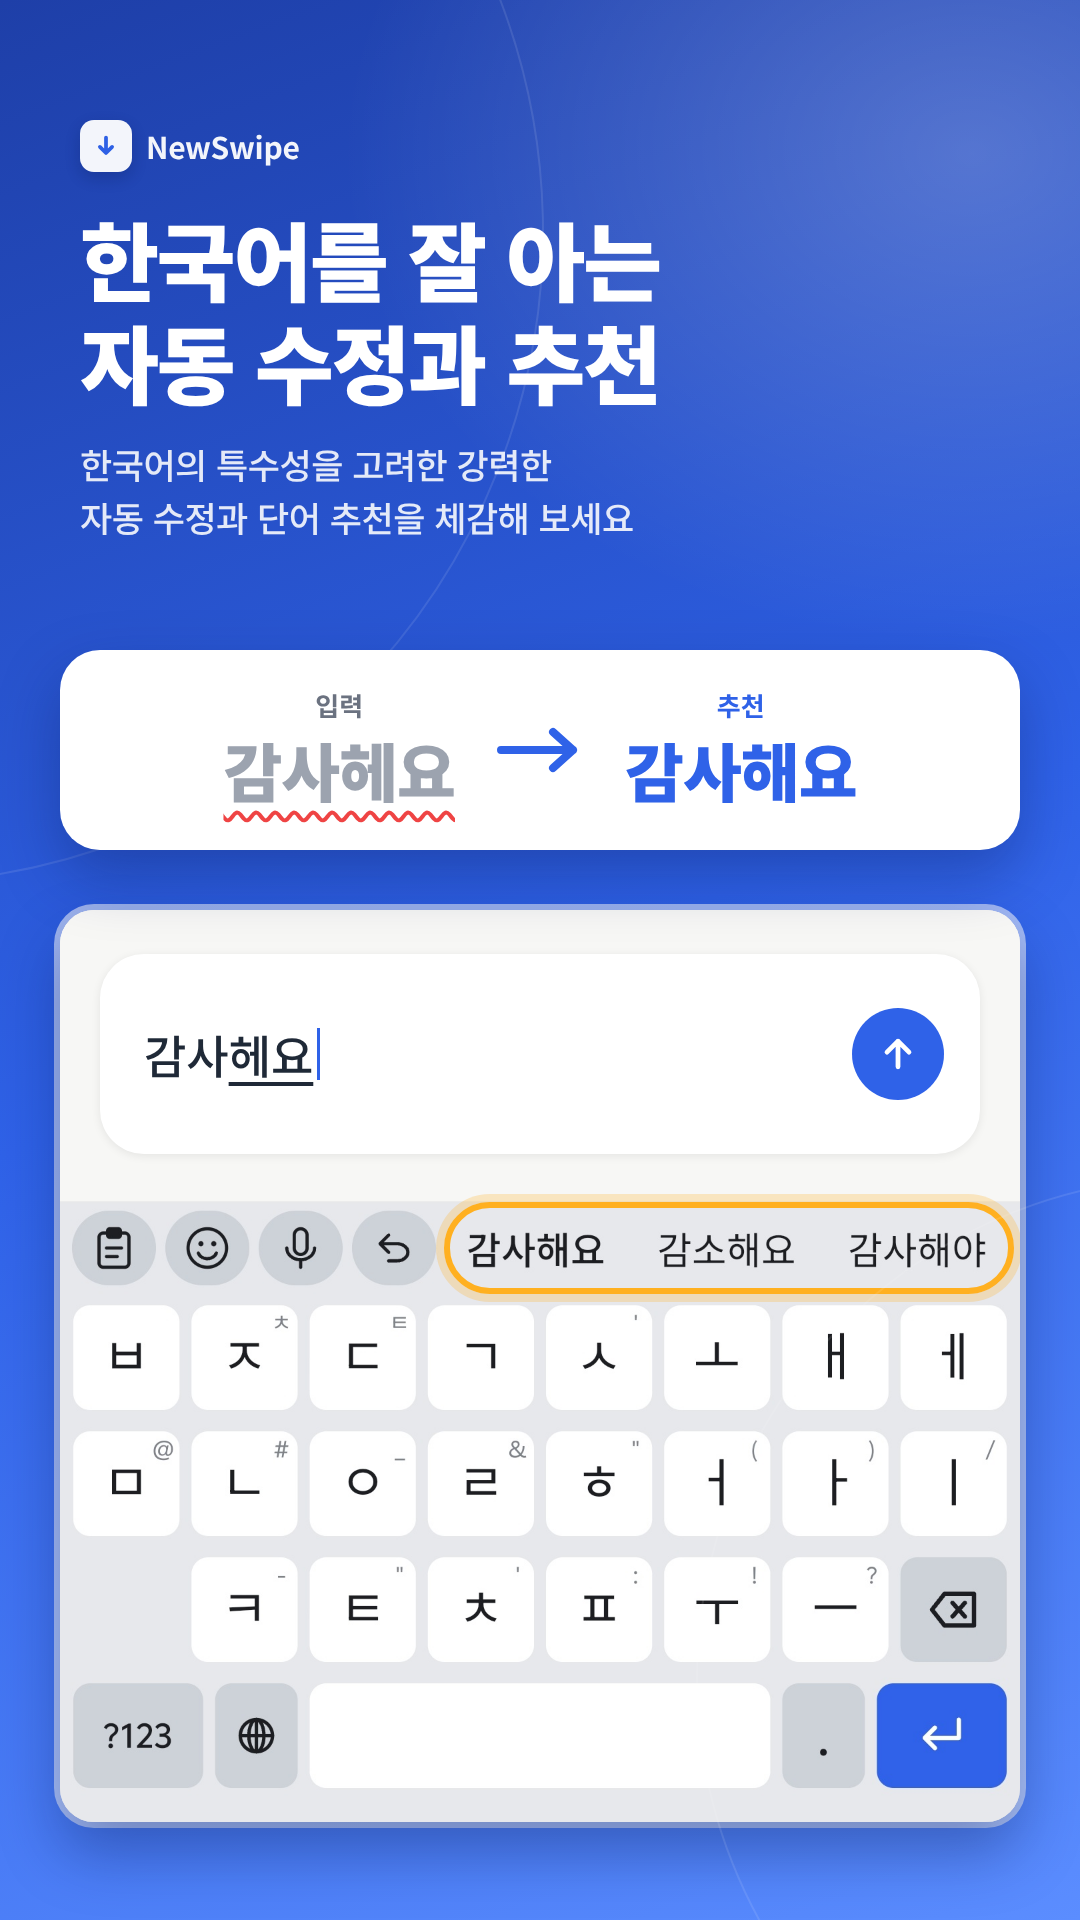
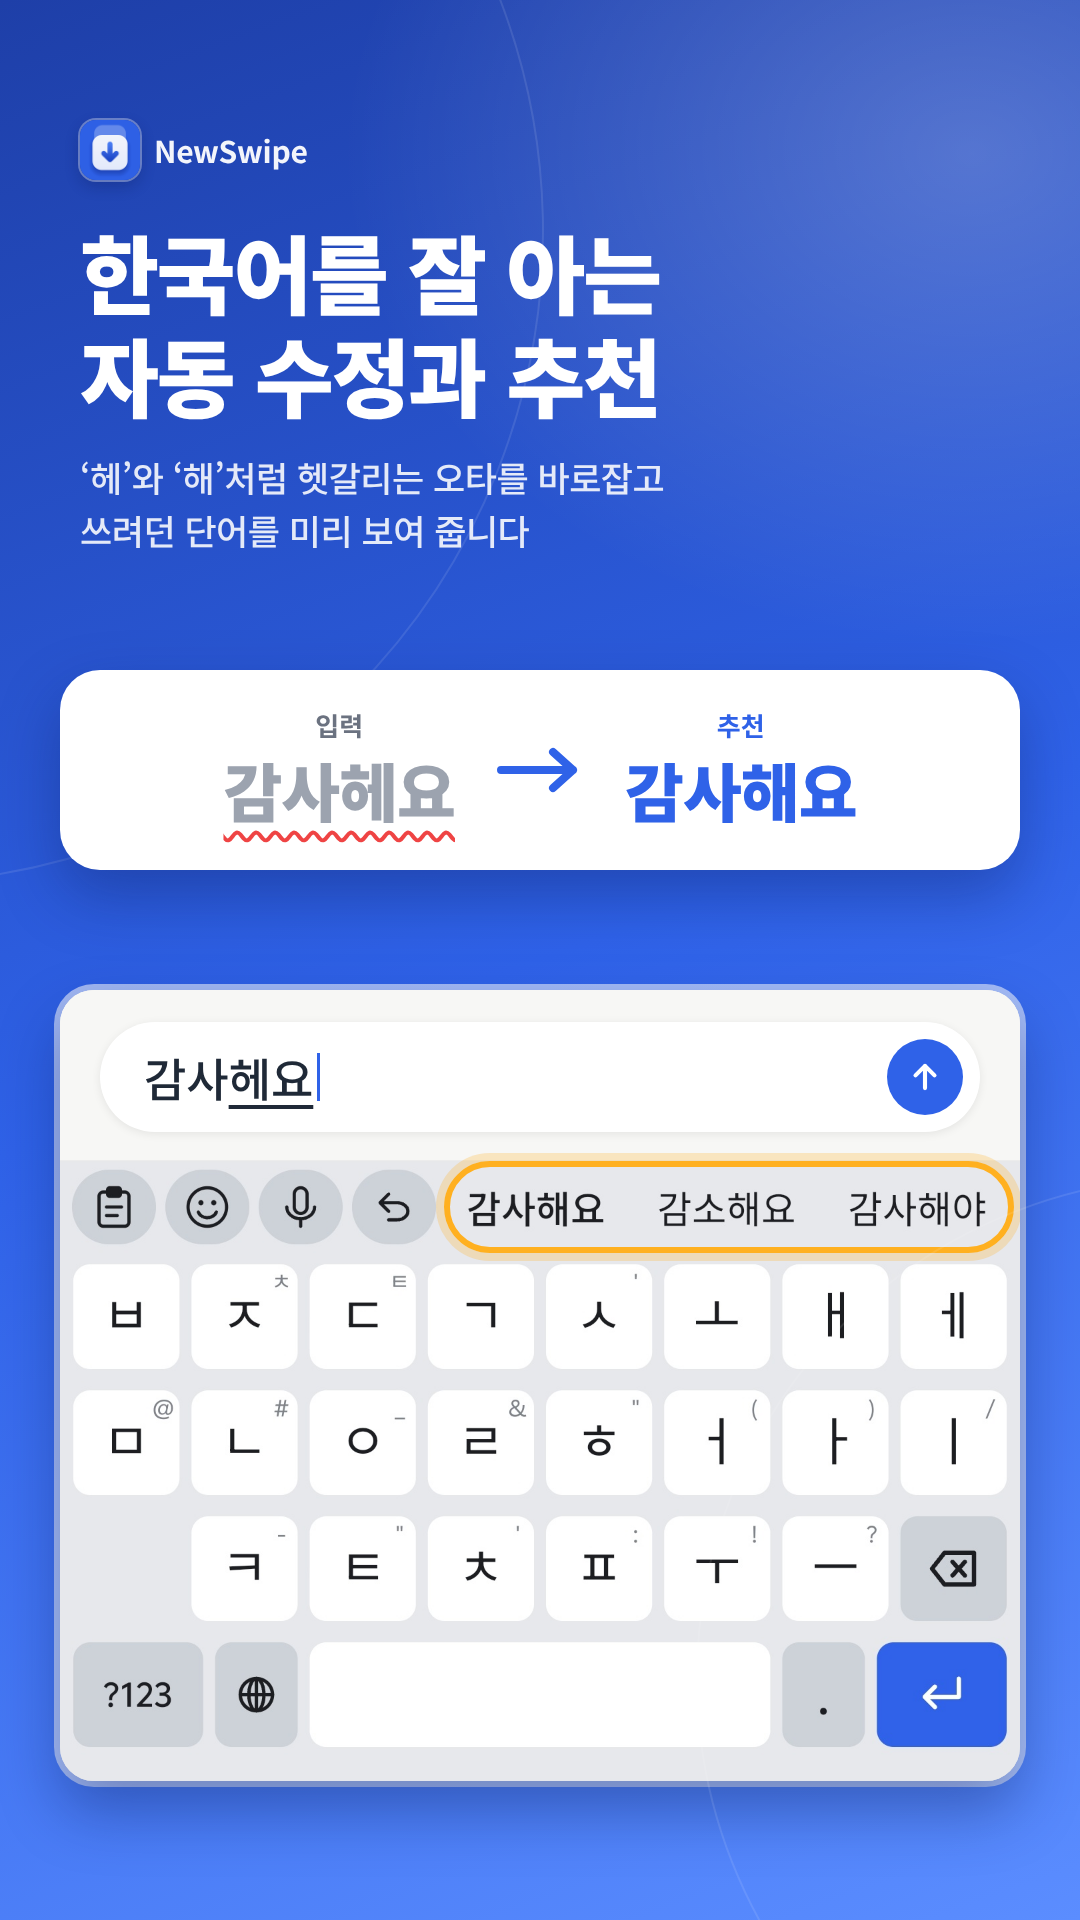
Play 스토어 스크린샷 최신화
- 왼쪽 위 브랜드 아이콘을 새 앱 아이콘(icon-512.png)으로 바꾼다
- 3번: 키 설정 화면을 지우기 키 설정 스크린샷으로 바꾸고, 화면과 겹치는 방향 패드 그림을 뺀다
- 4번: 입력창 높이를 200px에서 110px로 줄이고 사진 위쪽을 잘라 맞춘다
- 5번: 클립보드 카드 아래 잘린 안내 문구를 가리고, 부제를 자연스럽게 고친다
- 3·4·6번 제목과 부제의 번역투 표현을 다듬는다
- render.js가 실제 파일 이름(01-layouts.png 등)으로 저장하게 고친다

Claude-Session: https://claude.ai/code/session_01AwdWyHtkdh3yzUH3EHf2iE

diff --git a/docs/play-store/screenshots/src/shots.html b/docs/play-store/screenshots/src/shots.html
@@ -27,8 +27,8 @@
   .head { position: absolute; top: 120px; left: 80px; right: 80px; z-index: 2; }
   .brand { display: inline-flex; align-items: center; gap: 14px; font-weight: 700; font-size: 30px;
            opacity: .95; letter-spacing: -.3px; }
-  .brand .ic { width: 52px; height: 52px; border-radius: 14px; background: #fff;
-               display: grid; place-items: center; box-shadow: 0 6px 16px rgba(11,30,92,.3); }
+  .brand .ic { width: 60px; height: 60px; border-radius: 16px; display: block;
+               box-shadow: 0 0 0 2px rgba(255,255,255,.35), 0 6px 16px rgba(11,30,92,.35); }
   h1 { margin-top: 34px; font-size: 86px; font-weight: 900; line-height: 1.2; letter-spacing: -2.5px; }
   .head p { margin-top: 26px; font-size: 35px; font-weight: 500; line-height: 1.5; opacity: .88; letter-spacing: -.5px; }
 
@@ -62,7 +62,7 @@
 <!-- ============ 1. 레이아웃 ============ -->
 <section class="shot" id="s1">
   <div class="head">
-    <div class="brand"><span class="ic"><svg width="30" height="30" viewBox="0 0 64 64"><path d="M32 14v32M19 34l13 13 13-13" fill="none" stroke="#2F62E8" stroke-width="8" stroke-linecap="round" stroke-linejoin="round"/></svg></span>NewSwipe</div>
+    <div class="brand"><img class="ic" src="../../icon-512.png" alt="">NewSwipe</div>
     <h1>단모음 레이아웃,<br>원하는 대로</h1>
     <p>다양한 단모음 배열을 써 보고<br>내 손에 맞게 사용자화하세요</p>
   </div>
@@ -79,7 +79,7 @@
 <!-- ============ 2. 분리 키보드 ============ -->
 <section class="shot" id="s2">
   <div class="head">
-    <div class="brand"><span class="ic"><svg width="30" height="30" viewBox="0 0 64 64"><path d="M32 14v32M19 34l13 13 13-13" fill="none" stroke="#2F62E8" stroke-width="8" stroke-linecap="round" stroke-linejoin="round"/></svg></span>NewSwipe</div>
+    <div class="brand"><img class="ic" src="../../icon-512.png" alt="">NewSwipe</div>
     <h1>큰 화면에서는<br>분리 키보드로</h1>
     <p>태블릿이나 폴더블 내부 화면에서<br>양손 엄지로 편하게 입력하세요</p>
   </div>
@@ -101,30 +101,15 @@
 <!-- ============ 3. 키 기능 ============ -->
 <section class="shot" id="s3">
   <div class="head">
-    <div class="brand"><span class="ic"><svg width="30" height="30" viewBox="0 0 64 64"><path d="M32 14v32M19 34l13 13 13-13" fill="none" stroke="#2F62E8" stroke-width="8" stroke-linecap="round" stroke-linejoin="round"/></svg></span>NewSwipe</div>
+    <div class="brand"><img class="ic" src="../../icon-512.png" alt="">NewSwipe</div>
     <h1>모든 키의 기능을<br>마음대로 정하세요</h1>
-    <p>키마다 위·아래·왼쪽·오른쪽으로<br>밀었을 때 할 일을 상세하게 고르세요</p>
+    <p>키마다 위·아래·왼쪽·오른쪽으로<br>밀었을 때 할 일을 직접 고르세요</p>
   </div>
-  <div class="device" style="left:50px; top:650px; width:600px; height:1600px; border-radius:56px; padding:16px;">
+  <div class="device" style="left:50px; top:640px; width:600px; border-radius:56px; padding:16px;">
     <div class="screen"><img src="img/settings.jpg" style="width:100%; display:block;"></div>
   </div>
 
-  <!-- direction pad -->
-  <div style="position:absolute; left:684px; top:690px; width:450px; height:330px; z-index:5; transform:scale(.8); transform-origin:top left;
-              background:rgba(255,255,255,.96); border-radius:40px; box-shadow:0 26px 60px rgba(11,30,92,.4);">
-    <svg width="330" height="330" viewBox="0 0 330 330" style="position:absolute; left:60px; top:0;">
-      <g stroke="#2F62E8" stroke-width="10" stroke-linecap="round" stroke-linejoin="round" fill="none">
-        <path d="M165 105V45M140 68l25-25 25 25"/>
-        <path d="M165 225v60M140 262l25 25 25-25"/>
-        <path d="M105 165H45M68 140l-25 25 25 25"/>
-        <path d="M225 165h60M262 140l25 25-25 25"/>
-      </g>
-    </svg>
-    <div style="position:absolute; left:175px; top:115px; width:100px; height:100px; border-radius:24px;
-                background:#fff; box-shadow:0 6px 14px rgba(0,0,0,.18); display:grid; place-items:center;
-                "><svg width="56" height="56" viewBox="0 0 24 24" fill="none" stroke="#111827" stroke-width="2" stroke-linejoin="round" stroke-linecap="round"><path d="M8 5h12v14H8l-6-7z"/><path d="M11.5 9.5l5 5M16.5 9.5l-5 5"/></svg></div>
-  </div>
-  <div style="position:absolute; left:684px; top:1000px; width:360px; display:flex; flex-direction:column; gap:18px; z-index:4;">
+  <div style="position:absolute; left:684px; top:820px; width:360px; display:flex; flex-direction:column; gap:18px; z-index:4;">
     <div class="act"><span class="dot"><svg width="28" height="28" viewBox="0 0 24 24" fill="none" stroke="#fff" stroke-width="2.4" stroke-linecap="round" stroke-linejoin="round"><path d="M8 5h12v14H8l-6-7z"/><path d="M11.5 9.5l5 5M16.5 9.5l-5 5"/></svg></span><span>밀어서<br>단어 지우기</span></div>
     <div class="act"><span class="dot"><svg width="28" height="28" viewBox="0 0 24 24" fill="none" stroke="#fff" stroke-width="2.2" stroke-linecap="round" stroke-linejoin="round"><circle cx="12" cy="12" r="9"/><path d="M3 12h18M12 3c2.5 2.6 3.8 5.6 3.8 9s-1.3 6.4-3.8 9c-2.5-2.6-3.8-5.6-3.8-9S9.5 5.6 12 3z"/></svg></span><span>밀어서<br>한·영 전환</span></div>
     <div class="act"><span class="dot"><svg width="28" height="28" viewBox="0 0 24 24" fill="none" stroke="#fff" stroke-width="2.4" stroke-linecap="round" stroke-linejoin="round"><path d="M9 14L4 9l5-5"/><path d="M4 9h10.5a5.5 5.5 0 010 11H11"/></svg></span><span>실행 취소<br>다시 실행</span></div>
@@ -138,12 +123,12 @@
 <!-- ============ 4. 자동 수정 ============ -->
 <section class="shot" id="s4">
   <div class="head">
-    <div class="brand"><span class="ic"><svg width="30" height="30" viewBox="0 0 64 64"><path d="M32 14v32M19 34l13 13 13-13" fill="none" stroke="#2F62E8" stroke-width="8" stroke-linecap="round" stroke-linejoin="round"/></svg></span>NewSwipe</div>
+    <div class="brand"><img class="ic" src="../../icon-512.png" alt="">NewSwipe</div>
     <h1>한국어를 잘 아는<br>자동 수정과 추천</h1>
-    <p>한국어의 특수성을 고려한 강력한<br>자동 수정과 단어 추천을 체감해 보세요</p>
+    <p>‘헤’와 ‘해’처럼 헷갈리는 오타를 바로잡고<br>쓰려던 단어를 미리 보여 줍니다</p>
   </div>
 
-  <div style="position:absolute; left:60px; right:60px; top:650px; height:200px; z-index:3;
+  <div style="position:absolute; left:60px; right:60px; top:670px; height:200px; z-index:3;
               background:#fff; border-radius:40px; box-shadow:0 26px 60px rgba(11,30,92,.35);
               display:flex; align-items:center; justify-content:center; gap:40px; color:var(--ink);">
     <div style="text-align:center;">
@@ -159,18 +144,19 @@
   </div>
 
   <!-- suggest.jpg 1440x1368 at 960 -> scale .6667 -->
-  <div class="card" style="left:60px; top:910px; width:960px;">
-    <img src="img/suggest.jpg">
-    <div style="position:absolute; left:0; top:0; width:960px; height:291px; background:#F7F7F5;">
-      <div style="position:absolute; left:40px; right:40px; top:44px; height:200px; background:#fff; border-radius:44px;
-                  box-shadow:0 2px 10px rgba(0,0,0,.08); display:flex; align-items:center; padding:0 36px 0 44px;">
+  <!-- 앱 입력창(위 291px)을 가리고, 그 자리를 낮게 다시 그린다: 사진을 121px 올려 자르고 입력창은 110px -->
+  <div class="card" style="left:60px; top:990px; width:960px; height:791px;">
+    <img src="img/suggest.jpg" style="margin-top:-121px;">
+    <div style="position:absolute; left:0; top:0; width:960px; height:170px; background:#F7F7F5;">
+      <div style="position:absolute; left:40px; right:40px; top:32px; height:110px; background:#fff; border-radius:55px;
+                  box-shadow:0 2px 10px rgba(0,0,0,.08); display:flex; align-items:center; padding:0 17px 0 44px;">
         <span style="font-size:46px; font-weight:500; color:#1F2937;">감사<span style="text-decoration:underline; text-underline-offset:8px;">헤요</span></span>
-        <span style="display:inline-block; width:3px; height:52px; background:var(--blue); margin-left:4px;"></span>
-        <span style="margin-left:auto; width:92px; height:92px; border-radius:50%; background:var(--blue); display:grid; place-items:center;">
-          <svg width="44" height="44" viewBox="0 0 24 24" fill="none" stroke="#fff" stroke-width="2.6" stroke-linecap="round" stroke-linejoin="round"><path d="M12 19V5M6 11l6-6 6 6"/></svg></span>
+        <span style="display:inline-block; width:3px; height:48px; background:var(--blue); margin-left:4px;"></span>
+        <span style="margin-left:auto; width:76px; height:76px; border-radius:50%; background:var(--blue); display:grid; place-items:center;">
+          <svg width="38" height="38" viewBox="0 0 24 24" fill="none" stroke="#fff" stroke-width="2.6" stroke-linecap="round" stroke-linejoin="round"><path d="M12 19V5M6 11l6-6 6 6"/></svg></span>
       </div>
     </div>
-    <div style="position:absolute; left:384px; top:292px; width:570px; height:92px; border-radius:46px;
+    <div style="position:absolute; left:384px; top:171px; width:570px; height:92px; border-radius:46px;
                 border:6px solid #FFB020; box-shadow:0 0 0 8px rgba(255,176,32,.25);"></div>
   </div>
 </section>
@@ -178,22 +164,22 @@
 <!-- ============ 5. 이모지 · 클립보드 ============ -->
 <section class="shot" id="s5">
   <div class="head">
-    <div class="brand"><span class="ic"><svg width="30" height="30" viewBox="0 0 64 64"><path d="M32 14v32M19 34l13 13 13-13" fill="none" stroke="#2F62E8" stroke-width="8" stroke-linecap="round" stroke-linejoin="round"/></svg></span>NewSwipe</div>
+    <div class="brand"><img class="ic" src="../../icon-512.png" alt="">NewSwipe</div>
     <h1>최신 이모지부터<br>클립보드까지</h1>
-    <p>Emoji 18.0, 클립보드, Predictive Back Design,<br>시스템 자동완성 등 현대적인 기능들을<br>놓치지 마세요</p>
+    <p>Emoji 18.0 이모지를 한글로 찾고,<br>복사한 글은 고정해 두고 다시 쓰세요</p>
   </div>
 
   <div class="card" style="left:100px; top:690px; width:880px;"><img src="img/emoji.jpg"></div>
-  <div class="card" style="left:100px; top:1325px; width:880px; height:553px;"><img src="img/clipboard.jpg"></div>
+  <div class="card" style="left:100px; top:1325px; width:880px; height:462px;"><img src="img/clipboard.jpg"></div>
 </section>
 
 
 <!-- ============ 6. 사용자화 ============ -->
 <section class="shot" id="s6">
   <div class="head">
-    <div class="brand"><span class="ic"><svg width="30" height="30" viewBox="0 0 64 64"><path d="M32 14v32M19 34l13 13 13-13" fill="none" stroke="#2F62E8" stroke-width="8" stroke-linecap="round" stroke-linejoin="round"/></svg></span>NewSwipe</div>
-    <h1>당신에게 맞게,<br>입맛대로 사용자화</h1>
-    <p>기능키, 도구 막대 등 레이아웃을<br>원하는 대로 바꾸세요</p>
+    <div class="brand"><img class="ic" src="../../icon-512.png" alt="">NewSwipe</div>
+    <h1>기능키와 도구 막대도<br>입맛대로</h1>
+    <p>필요한 버튼만 남기고<br>끌어서 순서를 바꾸세요</p>
   </div>
   <div class="device" style="left:60px; top:660px; width:540px; border-radius:56px; padding:16px;">
     <div class="screen" style="border-radius:42px;"><img src="img/custom-keys.jpg" style="width:100%; display:block;"></div>

diff --git a/docs/play-store/screenshots/src/render.js b/docs/play-store/screenshots/src/render.js
@@ -1,9 +1,10 @@
 const { chromium } = require('playwright');
+const names = ['01-layouts', '02-split-keyboard', '03-key-actions', '04-autocorrect', '05-emoji-clipboard', '06-customize'];
 (async () => {
   const b = await chromium.launch();
   const p = await b.newPage({ viewport: { width: 1200, height: 2000 }, deviceScaleFactor: 1 });
   await p.goto('file://' + __dirname + '/shots.html', { waitUntil: 'networkidle' });
   await p.evaluate(() => document.fonts.ready);
-  for (let i = 1; i <= 6; i++) await (await p.$('#s' + i)).screenshot({ path: `../0${i}.png` });
+  for (let i = 0; i < names.length; i++) await (await p.$('#s' + (i + 1))).screenshot({ path: `${__dirname}/../${names[i]}.png` });
   await b.close();
 })();
